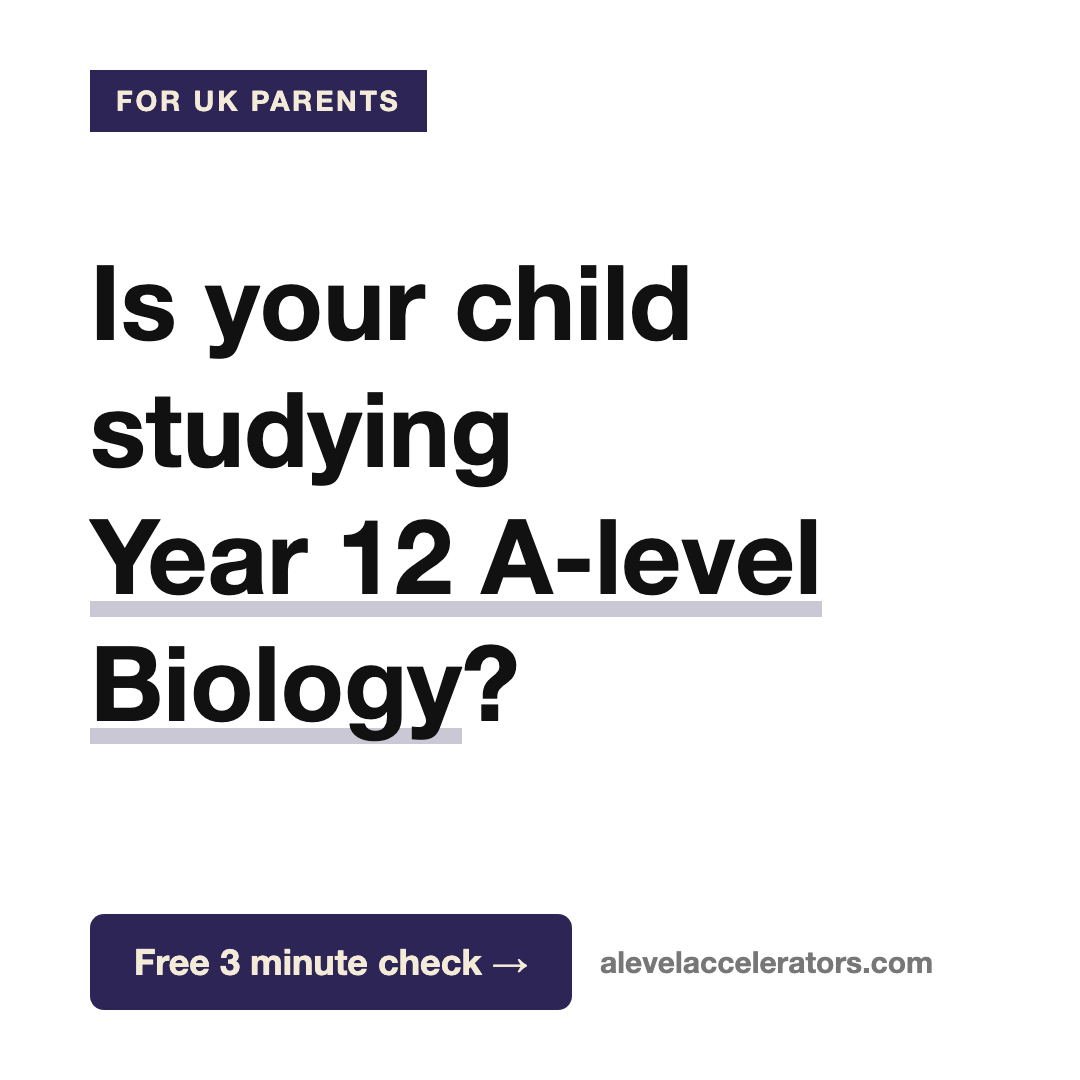
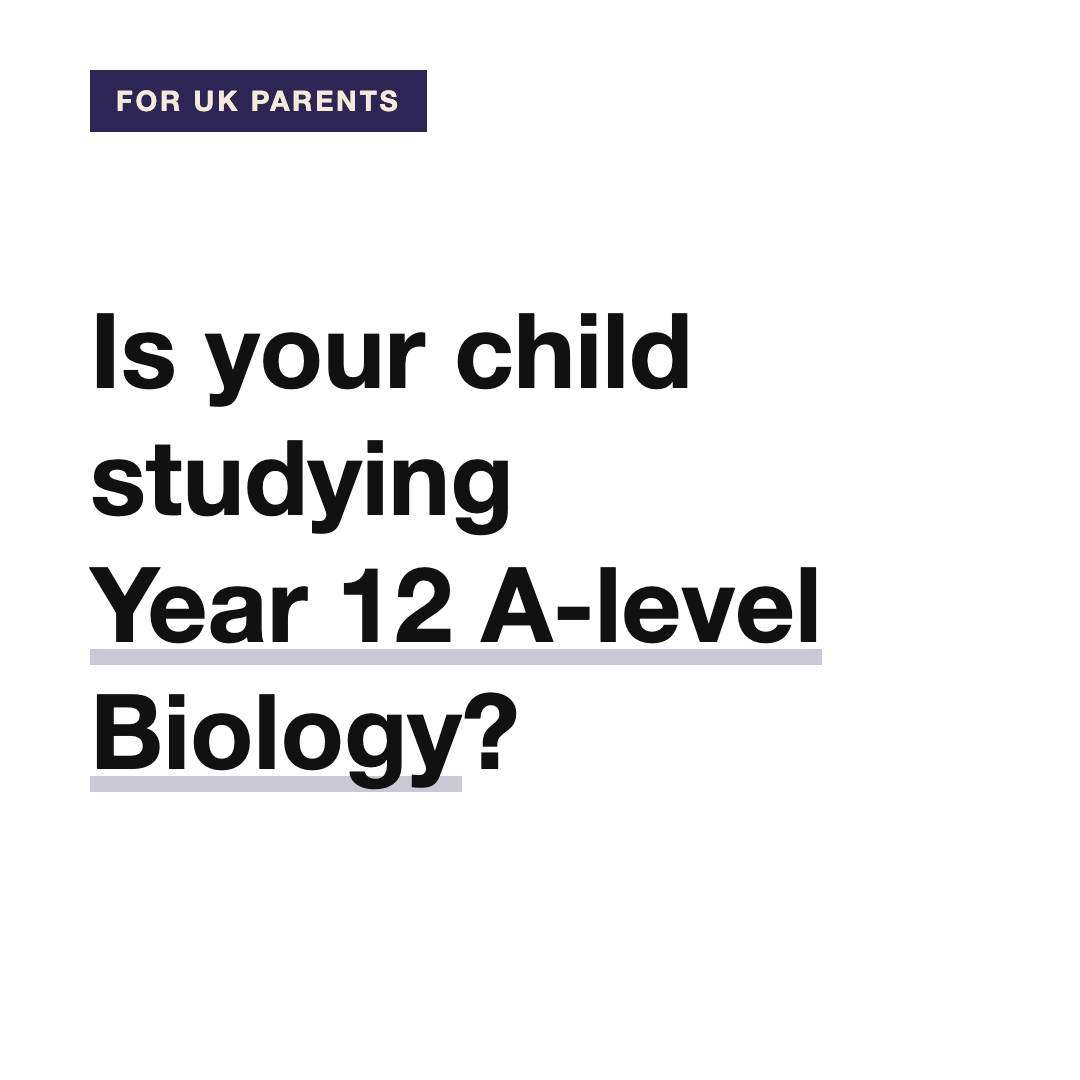
Callout batch stripped to pure question cards on Waleed's instruction: no CTA, no URL, no buttons

Changed region(s): [[0.0611, 0.2444, 0.7639, 0.7333], [0.0611, 0.825, 0.8556, 0.9472]]

diff --git a/content/meta-ads/2026-08-03-ugly-diagnostic-callouts/src/gen.py b/content/meta-ads/2026-08-03-ugly-diagnostic-callouts/src/gen.py
@@ -36,17 +36,12 @@ html,body {{ width:1080px; height:1080px; overflow:hidden; }}
 .strip {{ background:#c62828; color:#ffffff; text-align:center; font-weight:800;
       font-size:38px; letter-spacing:0.06em; padding:26px 0; }}
 .body {{ flex:1; display:flex; flex-direction:column; justify-content:center;
-      padding:0 90px; text-align:center; }}
+      padding:0 90px 90px; text-align:center; }}
 h1 {{ font-weight:900; font-size:{size}px; line-height:1.18; color:#111111; }}
 mark {{ background:#ffe872; padding:0 12px; }}
-.cta {{ padding:0 90px 70px; text-align:center; }}
-.cta .line {{ font-weight:700; font-size:40px; color:#111111; margin-bottom:14px; }}
-.cta .url {{ font-weight:600; font-size:30px; color:#777777; }}
 </style></head><body><div class="ad">
 <div class="strip">ATTENTION: UK PARENTS</div>
 <div class="body"><h1>{prefix}<br><mark>{key}</mark>{suffix}</h1></div>
-<div class="cta"><div class="line">Take the free 3 minute revision diagnostic &#8595;</div>
-<div class="url">alevelaccelerators.com</div></div>
 </div></body></html>"""
 
 UNDERLINE = """<!DOCTYPE html><html><head><meta charset="utf-8"><style>
@@ -60,15 +55,9 @@ html,body {{ width:1080px; height:1080px; overflow:hidden; }}
 .body {{ flex:1; display:flex; flex-direction:column; justify-content:center; text-align:left; }}
 h1 {{ font-weight:900; font-size:{size}px; line-height:1.22; color:#111111; }}
 .key {{ box-shadow: inset 0 -16px 0 0 rgba(46,37,87,0.25); }}
-.cta {{ display:flex; align-items:center; gap:28px; }}
-.pill {{ background:#2E2557; color:#F3EBD8; font-weight:700; font-size:36px;
-      padding:26px 44px; border-radius:14px; }}
-.url {{ font-weight:600; font-size:30px; color:#777777; }}
 </style></head><body><div class="ad">
 <div class="tag">FOR UK PARENTS</div>
 <div class="body"><h1>{prefix}<br><span class="key">{key}</span>{suffix}</h1></div>
-<div class="cta"><div class="pill">Free 3 minute check &#8594;</div>
-<div class="url">alevelaccelerators.com</div></div>
 </div></body></html>"""
 
 def font_size(prefix, key):

diff --git a/content/meta-ads/2026-08-03-ugly-diagnostic-callouts/ad.md b/content/meta-ads/2026-08-03-ugly-diagnostic-callouts/ad.md
@@ -17,9 +17,11 @@ headless Chrome). 13 questions x 2 styles:
   general variant (fine here because the diagnostic is method-level and subject-agnostic;
   Physics may NOT be used in Subject Accelerators copy).
 - Styles: `-marker` (red ATTENTION strip, yellow highlighter on the key phrase, the
-  full ugly-ads register) and `-underline` (brand-purple tag and pill, thick underline,
-  one notch less ugly). Both deliberately look like a notice, not an ad: that is the point.
-  Do not "improve" them with brand polish.
+  full ugly-ads register) and `-underline` (small brand-purple tag, thick underline).
+  On Waleed's instruction (3 Aug) the images carry NOTHING except the banner/tag and the
+  question itself: no CTA line, no URL, no buttons. They must not look like an ad at all;
+  the primary text and the Learn More button do the selling. Do not "improve" them with
+  brand polish or re-add a CTA.
 
 ## How to launch (Waleed presses everything)
 
